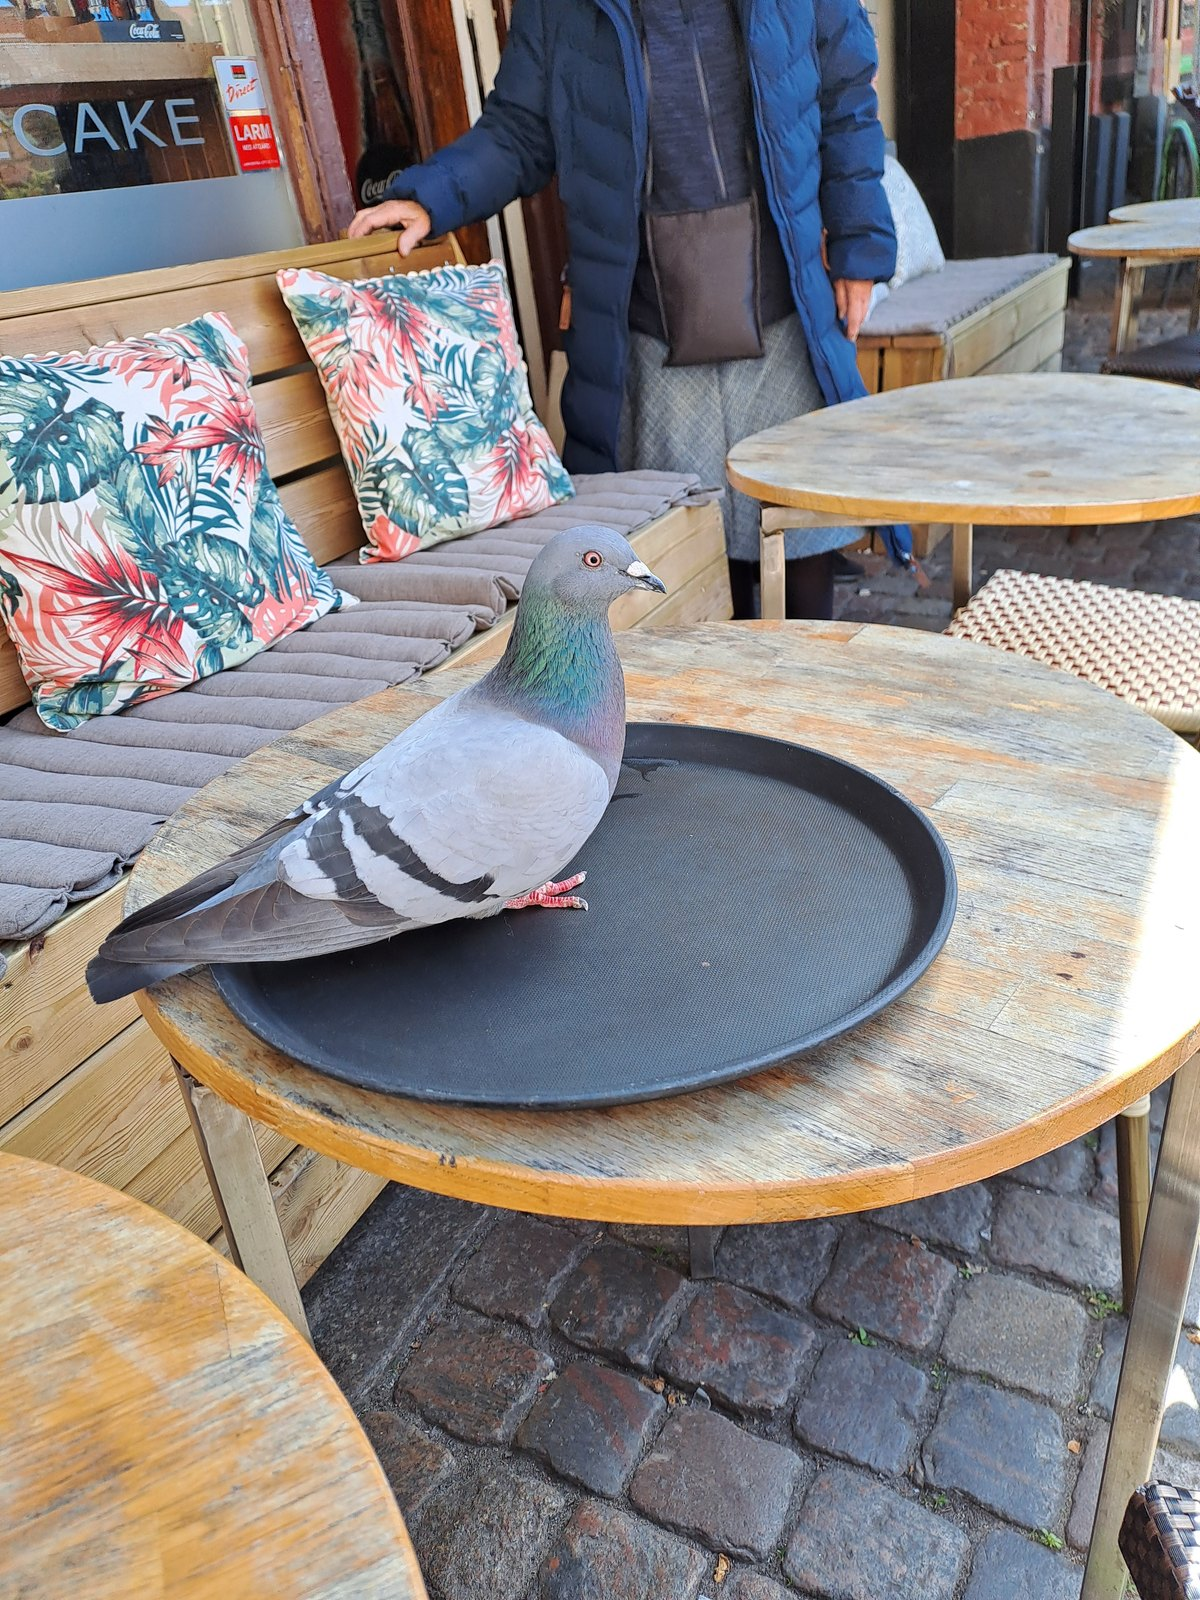
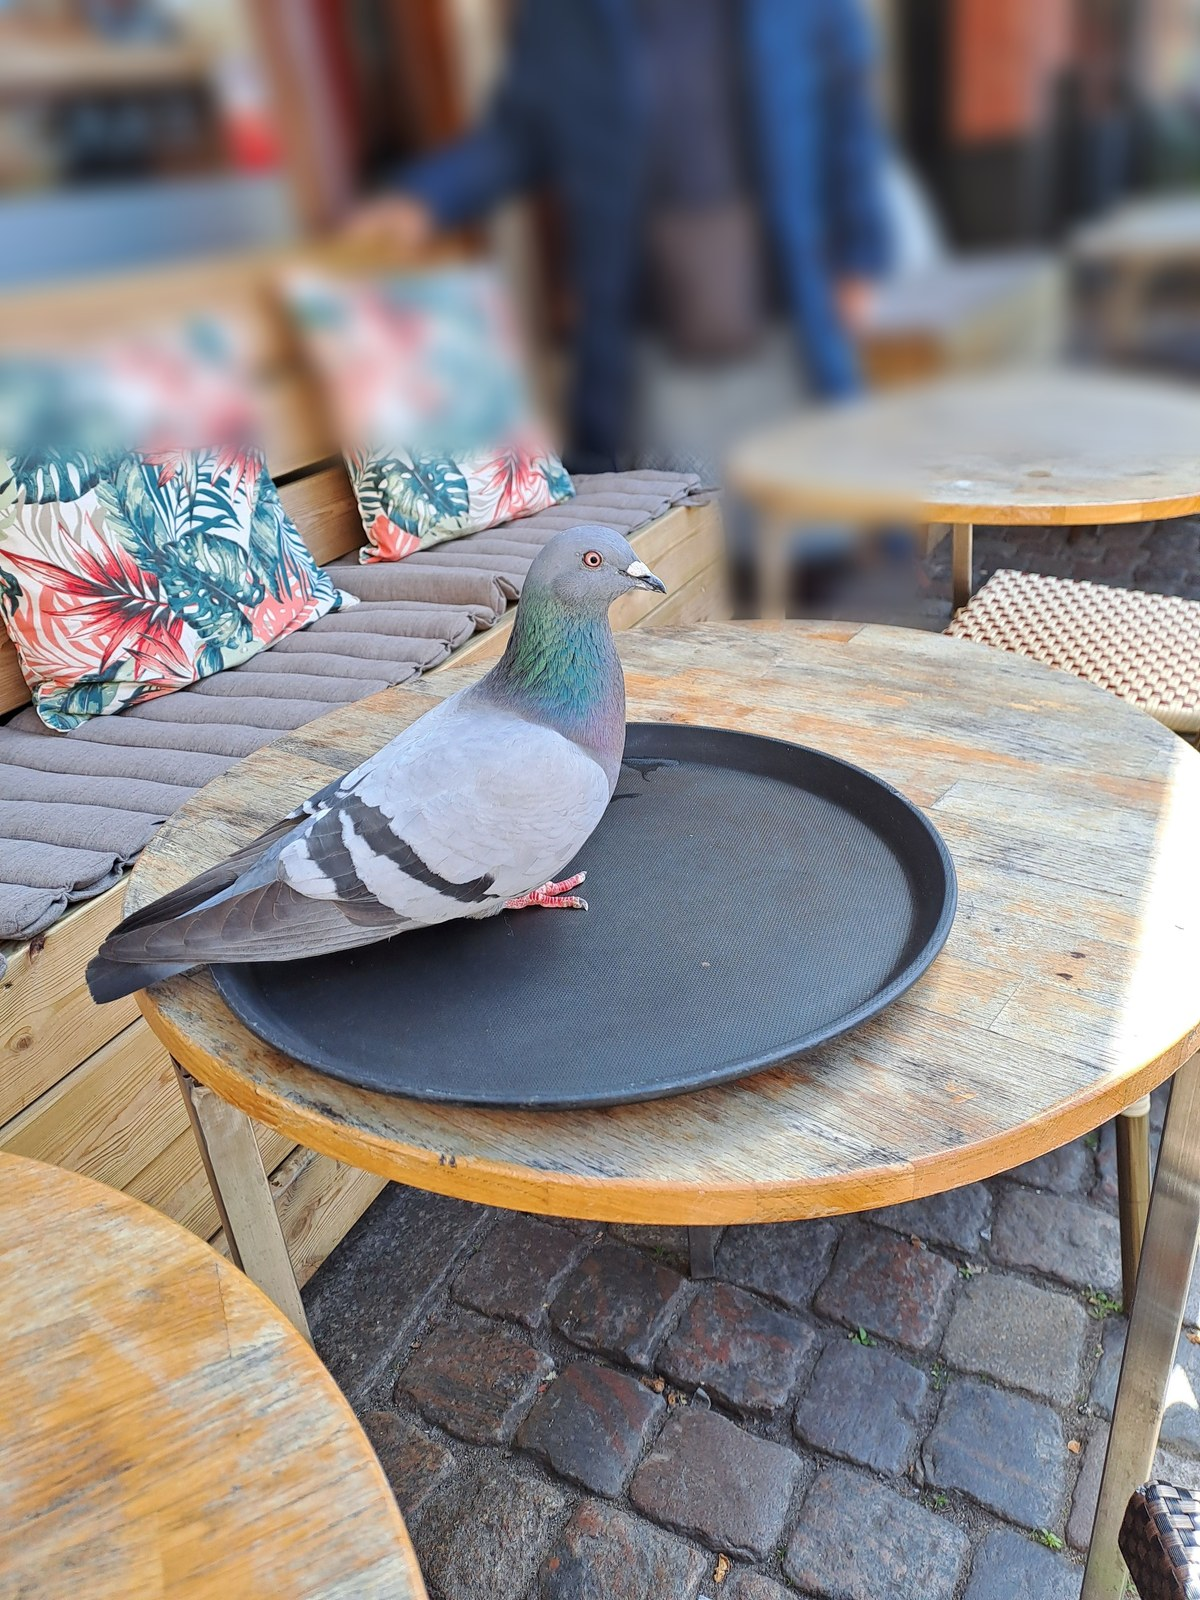
Blur the bystanders in the background of both pigeon frames
Neither frame could be cropped clear of them. In the wider frame the
right-hand figure's legs come down level with the bird's head, and in
the close frame the blue coat sits directly behind the beak, so any
crop that removed them would cut into the bird.

Instead each image gets a feathered blur over the far background, masked
so the bird stays sharp: a full-width band across the top of the wider
frame, and the top-right corner of the close one. Blurring the whole
band rather than a rectangle around the figures means the result reads
as depth-of-field falloff instead of a visible retouch, and nothing at
the same distance stays sharp beside something softened.

Both alt texts updated to match. The wider frame's also corrected a
real error: it said the bird's head was turned down, which described the
frame before its EXIF rotation was applied - the head is raised in
profile.

Claude-Session: https://claude.ai/code/session_013T97fE3ezhYhZw7bAjz83s

Changed region(s): [[0.4933, 0.0, 1.0, 0.4062], [0.0, 0.0, 0.4933, 0.3125]]

diff --git a/src/photos/pigeon-at-the-cafe-table.md b/src/photos/pigeon-at-the-cafe-table.md
@@ -6,7 +6,7 @@ location: "Malmö, Sweden"
 year: 2026
 album: "Malmö, May 2026"
 image: "pigeon-at-the-cafe-table.jpg"
-alt: "A feral pigeon standing on a black serving tray on a round wooden table outside a café, head turned down, with tropical-print cushions on pallet benches, cobblestones and a passer-by in a blue jacket behind"
+alt: "A feral pigeon standing on a black serving tray on a round wooden table outside a café, seen from above with its head raised in profile, tropical-print cushions on pallet benches to the left, cobblestones below and an out-of-focus street behind"
 order: 95
 competitions: [DCC, WNPA]
 ---

diff --git a/src/photos/pigeon-on-the-cafe-tray.md b/src/photos/pigeon-on-the-cafe-tray.md
@@ -6,7 +6,7 @@ location: "Malmö, Sweden"
 year: 2026
 album: "Malmö, May 2026"
 image: "pigeon-on-the-cafe-tray.jpg"
-alt: "A feral pigeon standing on the rim of a black rubber serving tray on a wooden café table, its neck feathers iridescent green and violet, with cushioned pallet benches behind"
+alt: "A feral pigeon standing on a black rubber serving tray on a wooden café table, tail overhanging the tray's edge, its neck feathers iridescent green and violet, with cushioned pallet benches behind"
 order: 94
 competitions: [DCC, WNPA]
 ---
